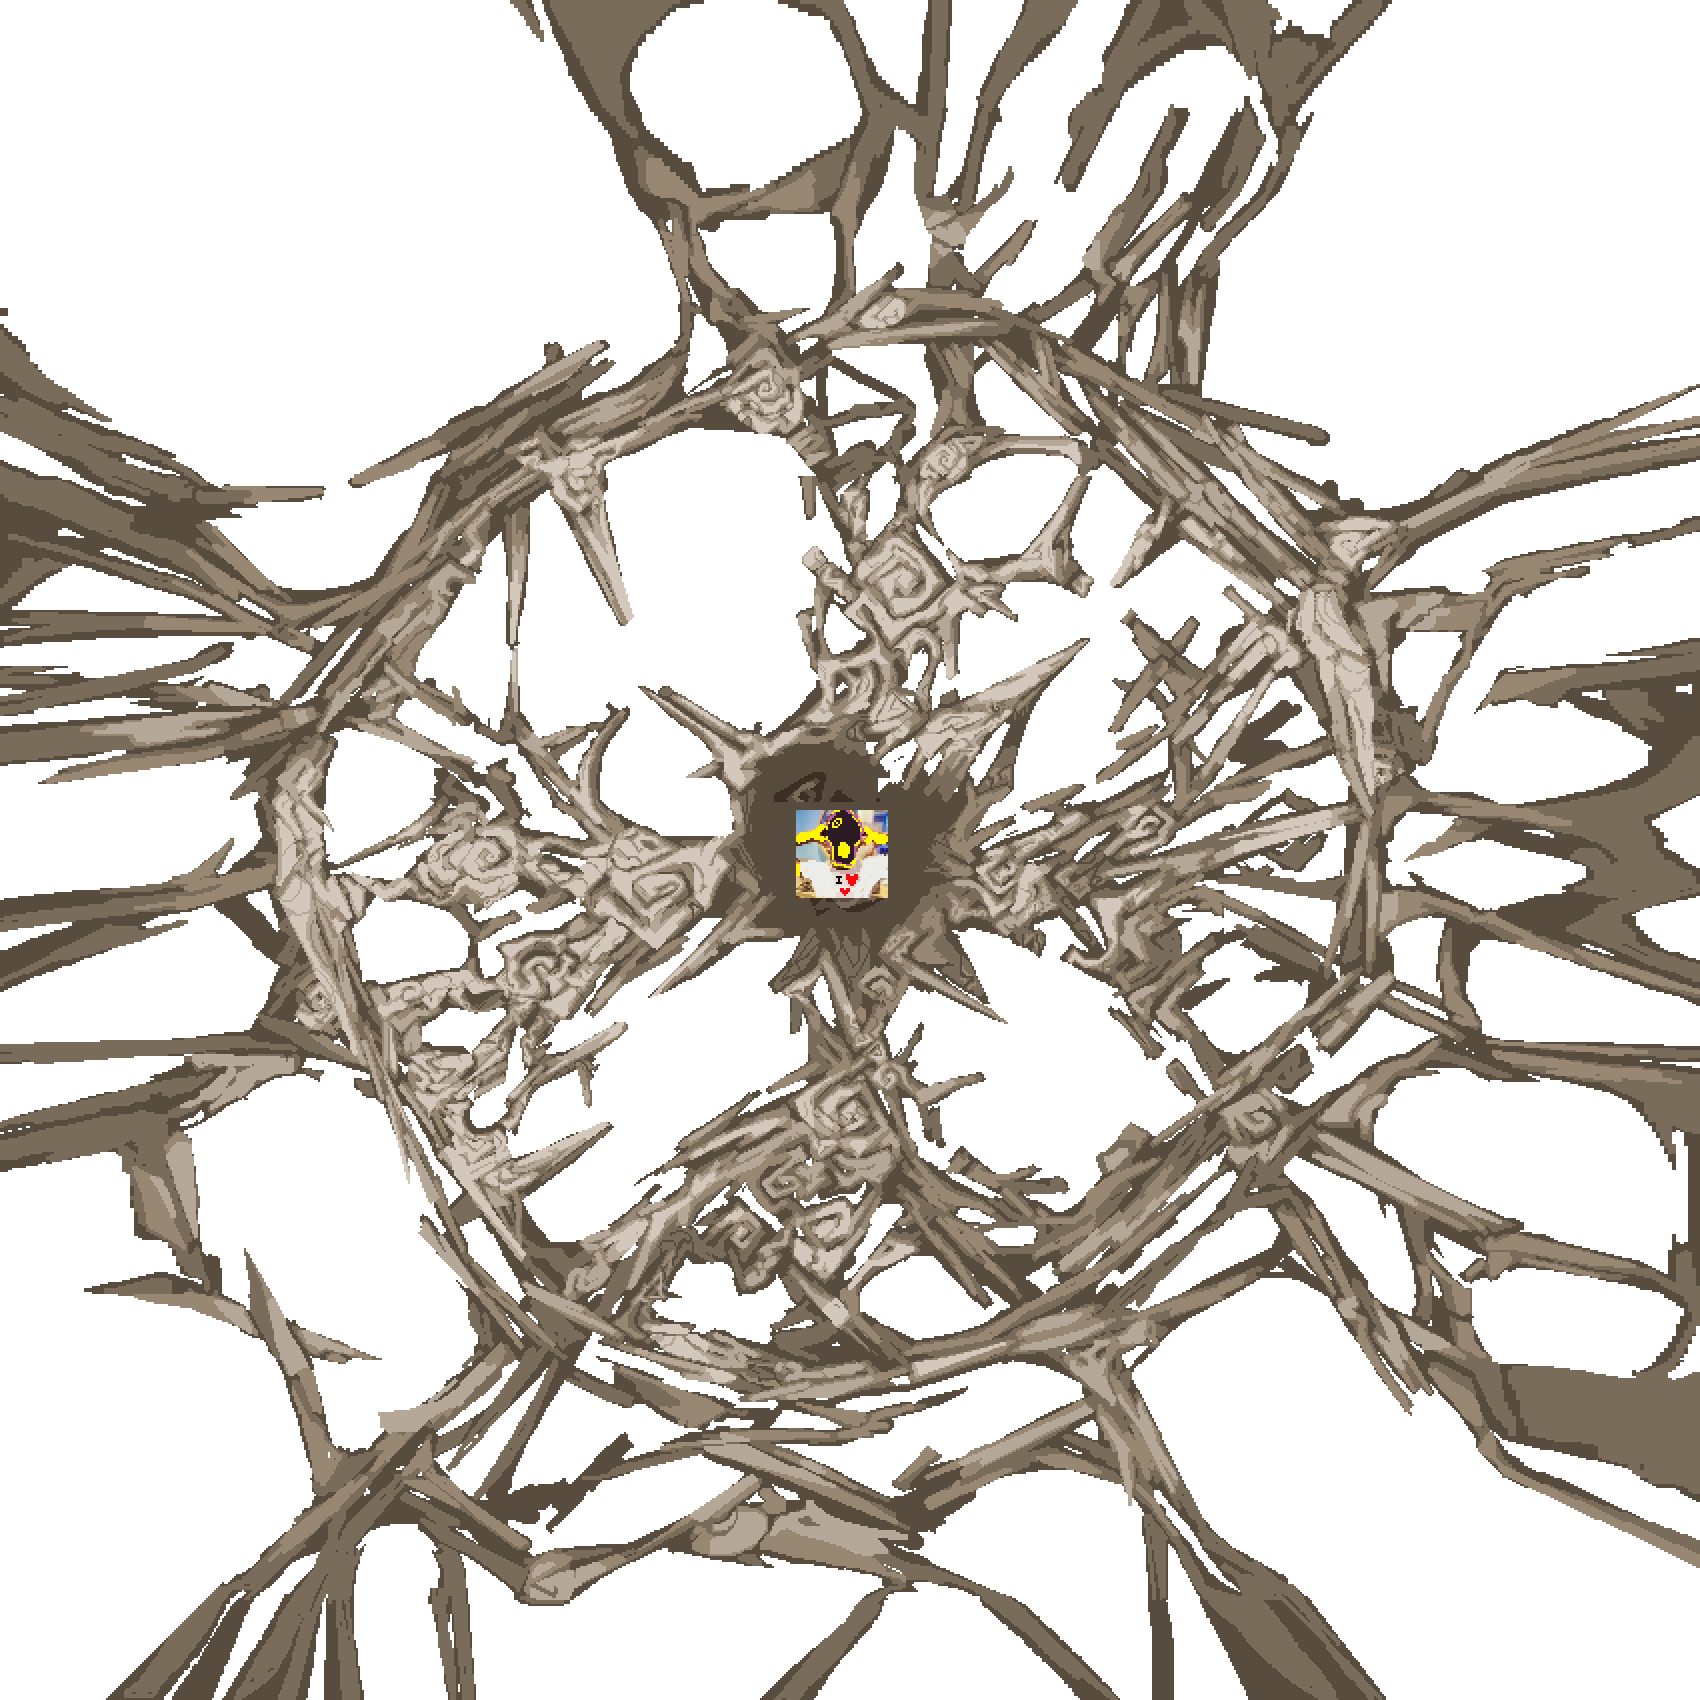
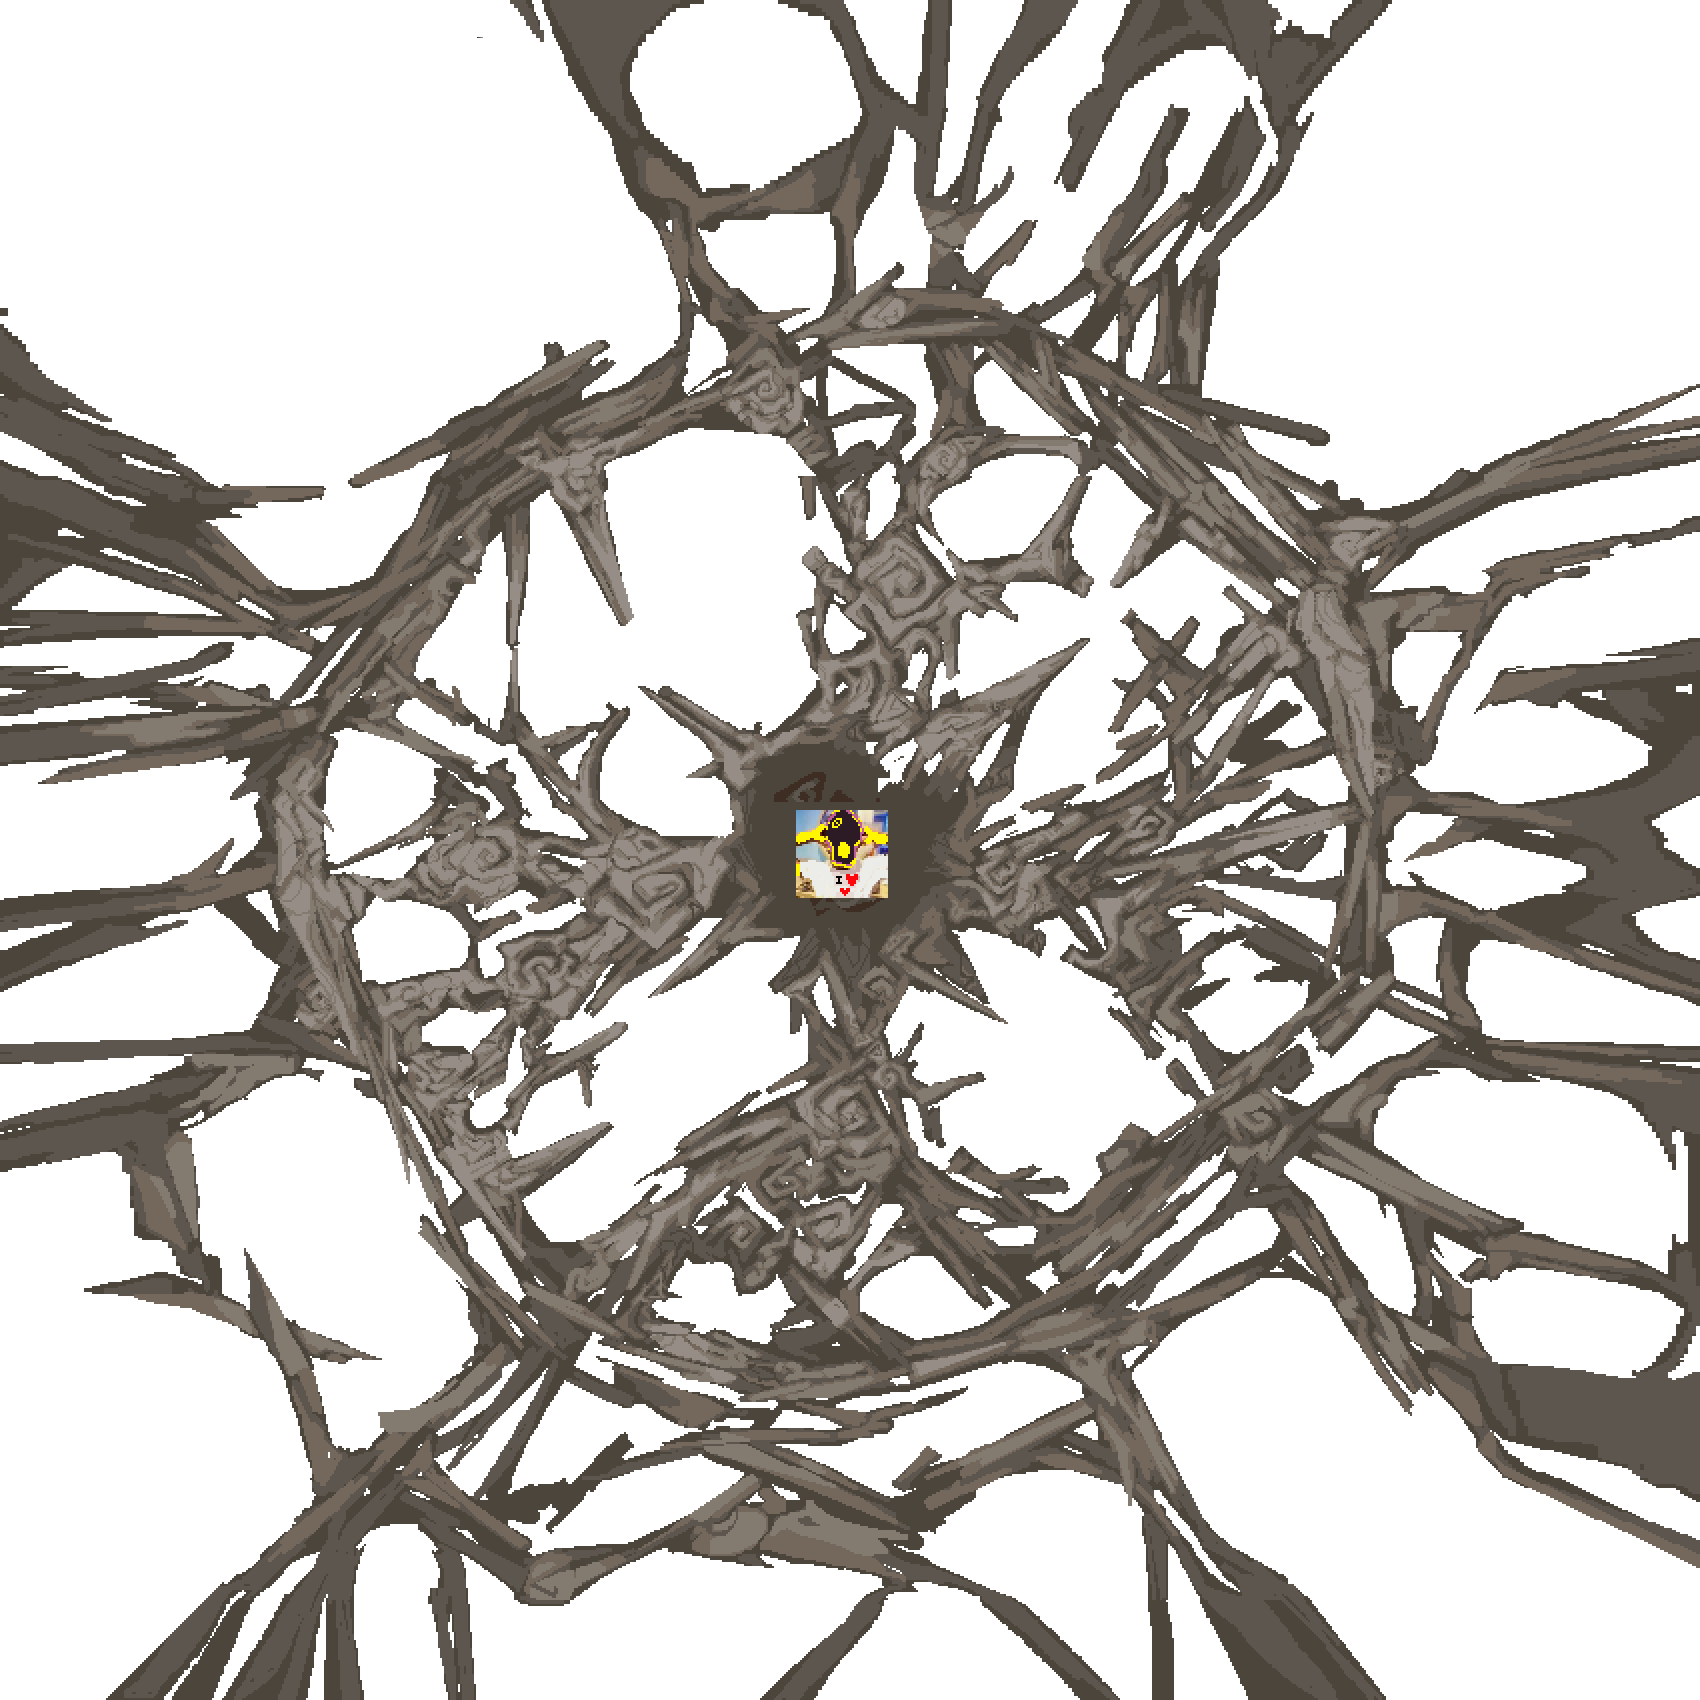
Fix weakpoint index

Changed region(s): [[0.0, 0.0, 1.0, 1.0], [0.3118, 0.0, 0.4053, 0.0935], [0.5612, 0.9353, 0.6547, 0.9976]]

diff --git a/Content/Bosses/TheThinkerBoss/NPCs.DeadBrain.cs b/Content/Bosses/TheThinkerBoss/NPCs.DeadBrain.cs
@@ -31,8 +31,8 @@ namespace StarlightRiver.Content.Bosses.TheThinkerBoss
 		/// </summary>
 		public NPC Weakpoint
 		{
-			get => Main.npc[weakpointIndex];
-			set => weakpointIndex = value.whoAmI;
+			get => weakpointIndex != -1 ? Main.npc[weakpointIndex] : null;
+			set => weakpointIndex = value?.whoAmI ?? -1;
 		}
 
 		public Vector2 savedPos;
